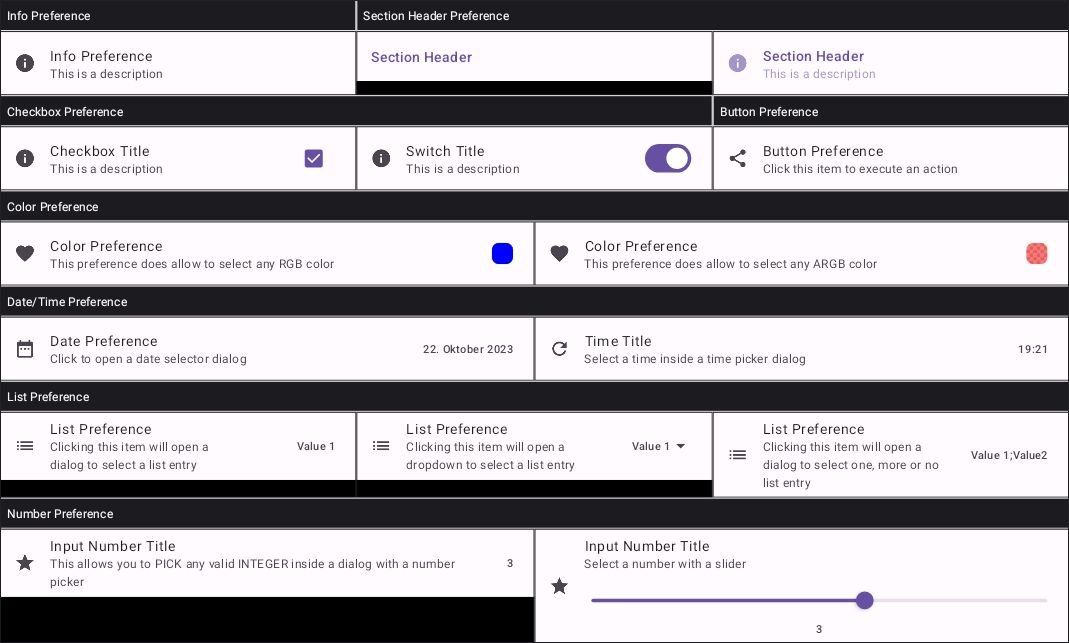
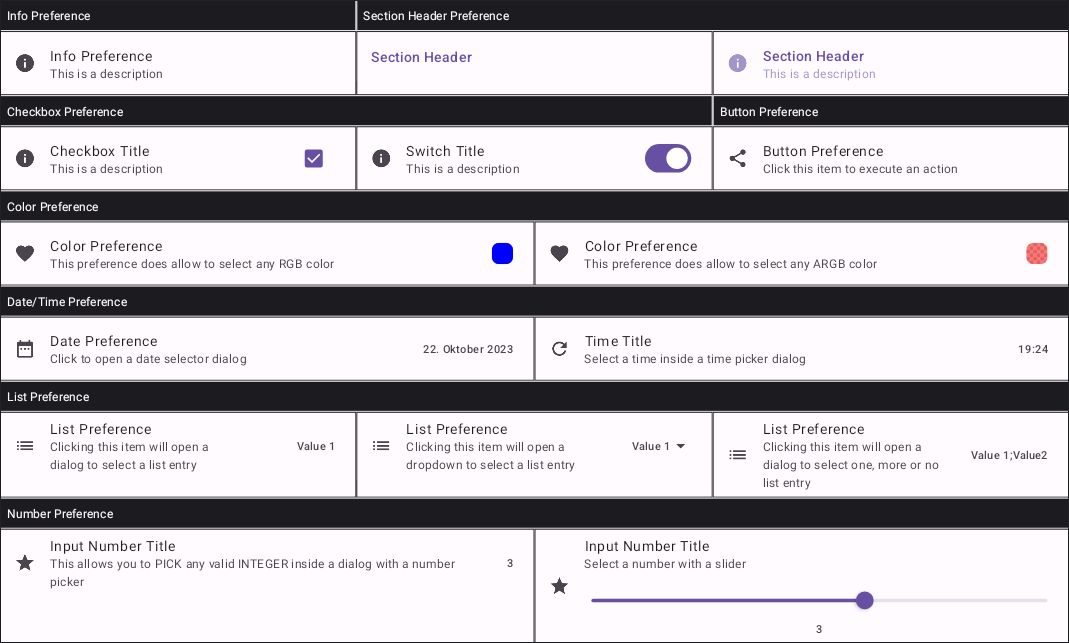
readme

Changed region(s): [[0.0, 0.902, 0.5248, 1.0], [0.0, 0.7465, 0.6791, 0.7776], [0.3087, 0.1244, 0.6791, 0.1555]]

diff --git a/demo/src/main/java/com/michaelflisar/composepreferences/demo/Preview.kt b/demo/src/main/java/com/michaelflisar/composepreferences/demo/Preview.kt
@@ -50,7 +50,9 @@ import java.time.LocalTime
 private fun PreviewAll() {
     Column(
         //verticalArrangement = Arrangement.spacedBy(8.dp),
-        modifier = Modifier.border(1.dp, MaterialTheme.colorScheme.onBackground)
+        modifier = Modifier
+            .background(MaterialTheme.colorScheme.background)
+            .border(1.dp, MaterialTheme.colorScheme.onBackground)
     ) {
         RowHeader("Info Preference", "Section Header Preference", weight2 = 2f)
         RowPreferences(

diff --git a/README.md b/README.md
@@ -7,6 +7,8 @@ This library offers you simple preference screens for compose.
 
 Made for **Compose M3**.
 
+### Overview
+
 ![Overview](screenshots/overview.jpg?raw=true "Overview") |
 
 ### Dependencies
